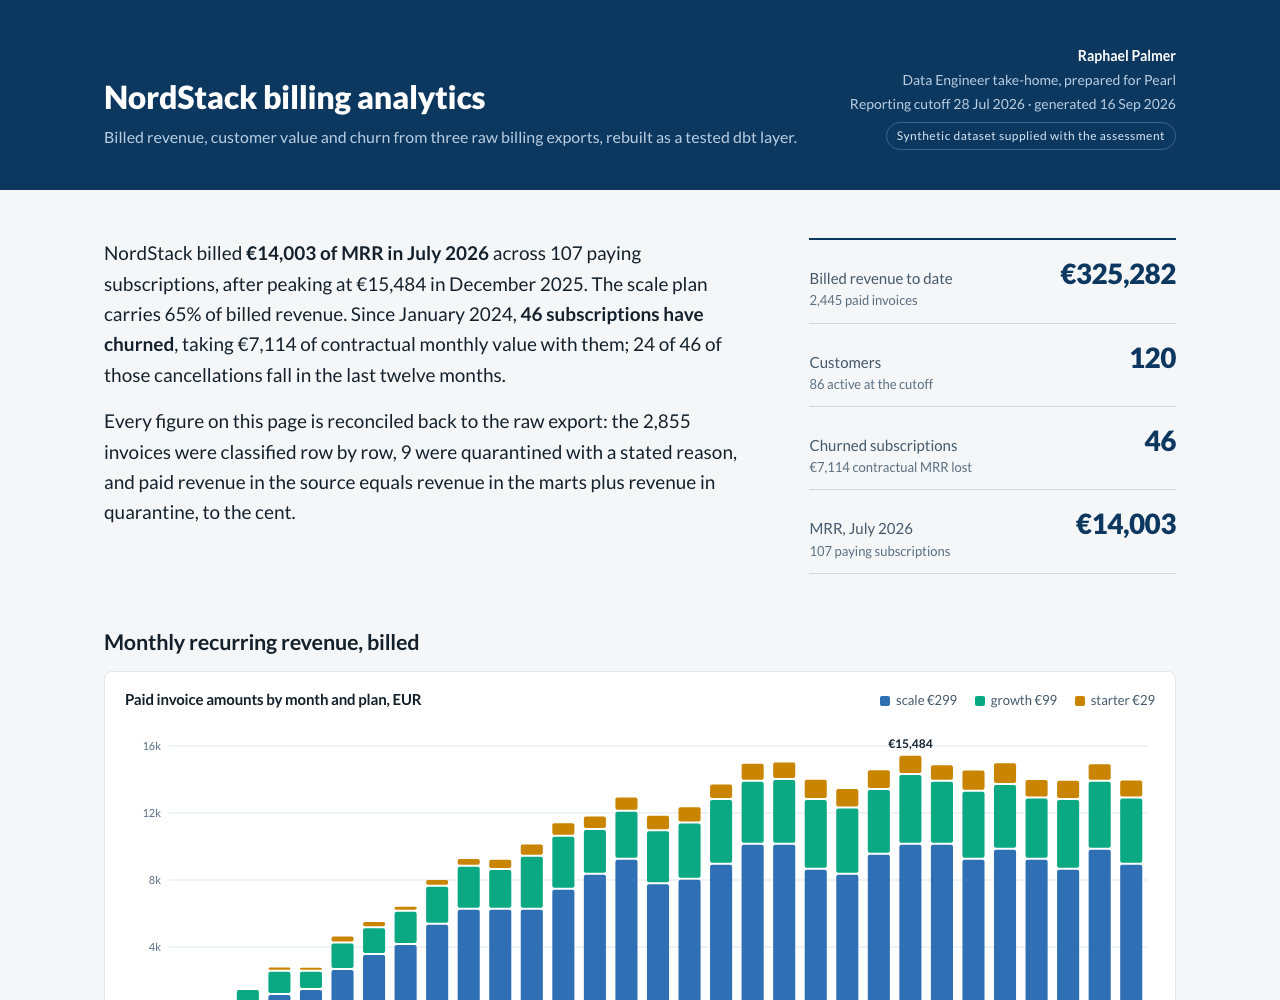
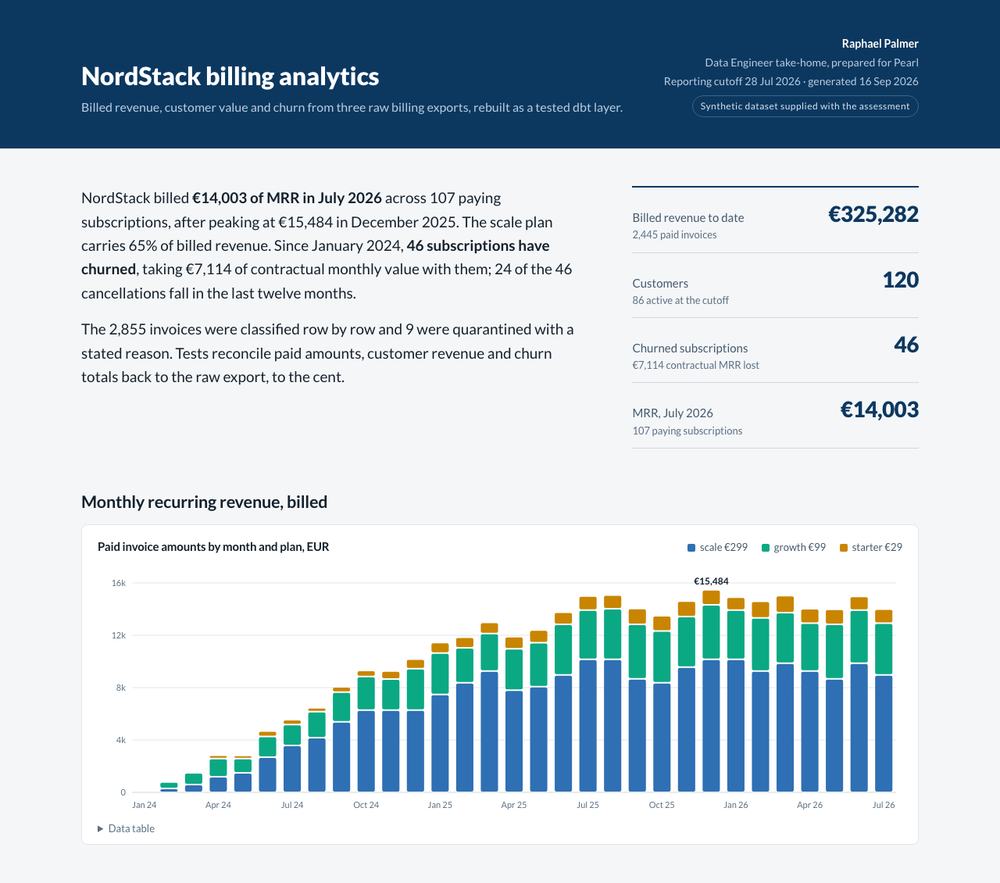
docs: narrow the report and reconciliation claims, Airflow unpause step, wording

diff --git a/report/template.html b/report/template.html
@@ -155,8 +155,8 @@
 <main class="wrap">
   <section class="lede">
     <div>
-      <p>NordStack billed <strong>__MRR_LAST__ of MRR in __MONTH_LAST__</strong> across __SUBS_LAST__ paying subscriptions, after peaking at __MRR_PEAK__ in __MONTH_PEAK__. The scale plan carries __SCALE_SHARE__ of billed revenue. Since __MONTH_FIRST__, <strong>__CHURN_N__ subscriptions have churned</strong>, taking __CHURN_EUR__ of contractual monthly value with them; __CHURN_12M__ of those cancellations fall in the last twelve months.</p>
-      <p>Every figure on this page is reconciled back to the raw export: the __RAW_INVOICES__ invoices were classified row by row, __REJ_INVOICES__ were quarantined with a stated reason, and paid revenue in the source equals revenue in the marts plus revenue in quarantine, to the cent.</p>
+      <p>NordStack billed <strong>__MRR_LAST__ of MRR in __MONTH_LAST__</strong> across __SUBS_LAST__ paying subscriptions, after peaking at __MRR_PEAK__ in __MONTH_PEAK__. The scale plan carries __SCALE_SHARE__ of billed revenue. Since __MONTH_FIRST__, <strong>__CHURN_N__ subscriptions have churned</strong>, taking __CHURN_EUR__ of contractual monthly value with them; __CHURN_12M__ cancellations fall in the last twelve months.</p>
+      <p>The __RAW_INVOICES__ invoices were classified row by row and __REJ_INVOICES__ were quarantined with a stated reason. Tests reconcile paid amounts, customer revenue and churn totals back to the raw export, to the cent.</p>
     </div>
     <div class="side">
       <dl>
@@ -213,8 +213,8 @@
     <div><div class="k">Raw rows</div><div class="v num">__RAW_TOTAL__</div><div class="d">__RAW_C__ customers · __RAW_S__ subscriptions · __RAW_INVOICES__ invoices</div></div>
     <div><div class="k">Diagnostics</div><div class="v num">28 checks</div><div class="d">warn-level tests on the raw tables; 17 fail on this export, on purpose</div></div>
     <div><div class="k">Collapsed</div><div class="v num">__COLLAPSED__</div><div class="d">exact duplicate rows</div></div>
-    <div><div class="k">Quarantined</div><div class="v num">__REJ_TOTAL__</div><div class="d">__REJ_S__ subscriptions · __REJ_INVOICES__ invoices, each with a reason</div></div>
-    <div><div class="k">Usable</div><div class="v num">__STG_TOTAL__</div><div class="d">__STG_C__ · __STG_S__ · __STG_I__ rows into the marts, reconciled</div></div>
+    <div><div class="k">Quarantined</div><div class="v num">__REJ_TOTAL__</div><div class="d">__REJ_S_LABEL__ · __REJ_INVOICES__ invoices, each with a reason</div></div>
+    <div><div class="k">Usable</div><div class="v num">__STG_TOTAL__</div><div class="d">__STG_C__ · __STG_S__ · __STG_I__ rows in staging, reconciled</div></div>
   </div>
   <div class="tbl">
   <table class="findings">
@@ -241,7 +241,7 @@
 
   <footer>
     <p><strong>Definitions.</strong> MRR is billed: the sum of paid invoice amounts in the invoice month, converted to EUR. Lost MRR on churn is contractual: the monthly price of subscriptions whose cancellation date falls in the month, on or before the reporting cutoff. Customer lifetime value is paid revenue attributable to a customer record. The two revenue bases differ on purpose and are labelled where they appear.</p>
-    <p><strong>Reproduce.</strong> The repository rebuilds everything from a clean clone with <code>make bootstrap</code>: MySQL as the source system, dlt to Postgres, dbt models and tests (source diagnostics warn, everything downstream errors), and an Airflow DAG that reruns the chain every five minutes. This page was generated from the marts on __GENERATED__ with <code>make report</code>; the data is the synthetic set supplied with the assessment.</p>
+    <p><strong>Reproduce.</strong> <code>make bootstrap</code> builds the warehouse from a clean clone: MySQL as the source system, dlt to Postgres, dbt models and tests (source diagnostics warn, everything downstream errors). An Airflow DAG reruns the chain every five minutes when deployed; the report is a separate <code>make report</code>. This page was generated from the marts on __GENERATED__ with <code>make report</code>; the data is the synthetic set supplied with the assessment.</p>
   </footer>
 </main>
 

diff --git a/report/nordstack-billing-report.html b/report/nordstack-billing-report.html
@@ -155,8 +155,8 @@
 <main class="wrap">
   <section class="lede">
     <div>
-      <p>NordStack billed <strong>€14,003 of MRR in July 2026</strong> across 107 paying subscriptions, after peaking at €15,484 in December 2025. The scale plan carries 65% of billed revenue. Since January 2024, <strong>46 subscriptions have churned</strong>, taking €7,114 of contractual monthly value with them; 24 of 46 of those cancellations fall in the last twelve months.</p>
-      <p>Every figure on this page is reconciled back to the raw export: the 2,855 invoices were classified row by row, 9 were quarantined with a stated reason, and paid revenue in the source equals revenue in the marts plus revenue in quarantine, to the cent.</p>
+      <p>NordStack billed <strong>€14,003 of MRR in July 2026</strong> across 107 paying subscriptions, after peaking at €15,484 in December 2025. The scale plan carries 65% of billed revenue. Since January 2024, <strong>46 subscriptions have churned</strong>, taking €7,114 of contractual monthly value with them; 24 of the 46 cancellations fall in the last twelve months.</p>
+      <p>The 2,855 invoices were classified row by row and 9 were quarantined with a stated reason. Tests reconcile paid amounts, customer revenue and churn totals back to the raw export, to the cent.</p>
     </div>
     <div class="side">
       <dl>
@@ -213,8 +213,8 @@
     <div><div class="k">Raw rows</div><div class="v num">3,151</div><div class="d">121 customers · 175 subscriptions · 2,855 invoices</div></div>
     <div><div class="k">Diagnostics</div><div class="v num">28 checks</div><div class="d">warn-level tests on the raw tables; 17 fail on this export, on purpose</div></div>
     <div><div class="k">Collapsed</div><div class="v num">2</div><div class="d">exact duplicate rows</div></div>
-    <div><div class="k">Quarantined</div><div class="v num">10</div><div class="d">1 subscriptions · 9 invoices, each with a reason</div></div>
-    <div><div class="k">Usable</div><div class="v num">3,139</div><div class="d">120 · 173 · 2,846 rows into the marts, reconciled</div></div>
+    <div><div class="k">Quarantined</div><div class="v num">10</div><div class="d">1 subscription · 9 invoices, each with a reason</div></div>
+    <div><div class="k">Usable</div><div class="v num">3,139</div><div class="d">120 · 173 · 2,846 rows in staging, reconciled</div></div>
   </div>
   <div class="tbl">
   <table class="findings">
@@ -241,7 +241,7 @@
 
   <footer>
     <p><strong>Definitions.</strong> MRR is billed: the sum of paid invoice amounts in the invoice month, converted to EUR. Lost MRR on churn is contractual: the monthly price of subscriptions whose cancellation date falls in the month, on or before the reporting cutoff. Customer lifetime value is paid revenue attributable to a customer record. The two revenue bases differ on purpose and are labelled where they appear.</p>
-    <p><strong>Reproduce.</strong> The repository rebuilds everything from a clean clone with <code>make bootstrap</code>: MySQL as the source system, dlt to Postgres, dbt models and tests (source diagnostics warn, everything downstream errors), and an Airflow DAG that reruns the chain every five minutes. This page was generated from the marts on 16 Sep 2026 with <code>make report</code>; the data is the synthetic set supplied with the assessment.</p>
+    <p><strong>Reproduce.</strong> <code>make bootstrap</code> builds the warehouse from a clean clone: MySQL as the source system, dlt to Postgres, dbt models and tests (source diagnostics warn, everything downstream errors). An Airflow DAG reruns the chain every five minutes when deployed; the report is a separate <code>make report</code>. This page was generated from the marts on 16 Sep 2026 with <code>make report</code>; the data is the synthetic set supplied with the assessment.</p>
   </footer>
 </main>
 

diff --git a/report/build_report.py b/report/build_report.py
@@ -1,8 +1,9 @@
-"""Render report/nordstack-billing-report.html from the marts in Postgres.
+"""Render report/nordstack-billing-report.html from the warehouse.
 
-The template holds the layout, the chart code and the prose; every number in the
-prose is a placeholder filled here from the marts, so a rebuild refreshes the page
-as a whole. The findings table describes this export and is written by hand.
+The template holds the layout, the chart code and the prose. This script refreshes
+headline metrics, charts and row counts from the marts, staging and quarantine
+schemas. Diagnostic counts, plan prices and the findings table describe this export
+and are written by hand in the template.
 """
 import json
 import os
@@ -101,7 +102,7 @@ def figures(data: dict, cutoff: str) -> dict:
         "MRR_LAST": eur(by_month[last]), "MONTH_LAST": month(last), "SUBS_LAST": subs_by_month[last],
         "MRR_PEAK": eur(by_month[peak]), "MONTH_PEAK": month(peak), "MONTH_FIRST": month(months[0]),
         "SCALE_SHARE": f"{scale / revenue:.0%}",
-        "CHURN_N": churn_n, "CHURN_EUR": eur(churn_eur), "CHURN_12M": f"{churn_12m} of {churn_n}",
+        "CHURN_N": churn_n, "CHURN_EUR": eur(churn_eur), "CHURN_12M": f"{churn_12m} of the {churn_n}",
         "REVENUE": eur(revenue), "PAID_INVOICES": f"{c['paid']:,}",
         "CUSTOMERS": c["stg_c"], "ACTIVE": data["status"].get("active", 0),
         "TOP10_SHARE": f"{top10 / revenue:.1%}",
@@ -109,7 +110,7 @@ def figures(data: dict, cutoff: str) -> dict:
         "RAW_C": c["raw_c"], "RAW_S": c["raw_s"], "RAW_INVOICES": f"{c['raw_i']:,}",
         "RAW_TOTAL": f"{c['raw_c'] + c['raw_s'] + c['raw_i']:,}",
         "COLLAPSED": (c["raw_c"] - c["stg_c"]) + (c["raw_s"] - c["stg_s"] - c["rej_s"]),
-        "REJ_S": c["rej_s"], "REJ_INVOICES": c["rej_i"], "REJ_TOTAL": c["rej_s"] + c["rej_i"],
+        "REJ_S_LABEL": f"{c['rej_s']} subscription{'' if c['rej_s'] == 1 else 's'}", "REJ_INVOICES": c["rej_i"], "REJ_TOTAL": c["rej_s"] + c["rej_i"],
         "STG_C": c["stg_c"], "STG_S": c["stg_s"], "STG_I": f"{c['stg_i']:,}",
         "STG_TOTAL": f"{c['stg_c'] + c['stg_s'] + c['stg_i']:,}",
         "GENERATED": date.today().strftime("%-d %b %Y"),

diff --git a/ingestion/settings.py b/ingestion/settings.py
@@ -1,5 +1,5 @@
-"""Connection settings. Defaults match docker-compose.yml. The NORDSTACK_* variables are
-the same ones profiles.yml reads; make exports them from .env to ingestion and dbt."""
+"""Connection settings. Defaults match docker-compose.yml. NORDSTACK_PG_* are the same
+variables profiles.yml reads; make exports .env to ingestion and dbt."""
 import os
 
 from sqlalchemy import URL

diff --git a/README.md b/README.md
@@ -56,7 +56,7 @@ compose, ingestion, dbt and the report all read the same variables.
     data/                 billing CSV exports, the assessment input, unchanged
     ingestion/            load_source_system.py (CSV -> MySQL), sync_to_warehouse.py (dlt MySQL -> Postgres)
     models/sources.yml    raw tables with warn-level diagnostics
-    models/staging/       base_* type and classify every row; stg_* keep the usable ones
+    models/staging/       base_* type and classify subscriptions and invoices; stg_* keep the usable rows
     models/quarantine/    rej_* keep the rejected ones, each with a reject_reason
     models/intermediate/  paid invoices in EUR within the cutoff, month spine
     models/marts/         fct_mrr_monthly_by_plan, dim_customer_ltv, fct_churn_monthly
@@ -77,7 +77,7 @@ appropriate. dlt adds `_dlt_load_id` and `_dlt_id` to every row.
 `stg_customers`, which has no base model because customers are never rejected). Empty
 CSV cells are loaded as SQL NULL. Casts are deliberately
 fail-fast: a malformed date or amount stops the build instead of being quarantined,
-because it would mean the export format itself changed.
+because it requires investigation.
 
 **Clean column plus `_raw` column, no flags.** When a value fails a rule the clean column
 is NULL and the `_raw` column keeps the export value (`email` / `email_raw`,
@@ -89,10 +89,10 @@ is NULL and the `_raw` column keeps the export value (`email` / `email_raw`,
 currency or subscription). `stg_*` keeps the rest, `rej_*` keeps the rejected rows, and a
 test proves the two add up to the raw rows (distinct raw rows for subscriptions, which
 hold an exact duplicate). Two defects are deliberately not rejected:
-a subscription whose customer is missing from the export (its invoices are real money,
-so they count in MRR but cannot be attributed in LTV), and a subscription whose end date
-precedes its start date (its invoices are real; its end date is nulled, so it keeps the
-exported status cancelled but is never counted as churn, having no trusted month).
+a subscription whose customer is missing from the export (its paid invoices count in
+MRR and cannot be attributed in LTV), and a subscription whose end date precedes its
+start date (its invoices count; its end date is nulled, so it keeps the exported status
+cancelled but is never counted as churn, having no trusted month).
 
 **Materialisation.** Staging, quarantine and intermediate are views over the latest
 loaded data. Marts are tables, which is what BI reads.
@@ -103,13 +103,13 @@ amounts in EUR by invoice month, as the brief asks. `fct_churn_monthly` sums
 
 **Fixed cutoff.** `as_of_date` (2026-07-28, the last invoice date) replaces
 `current_date` everywhere, so the marts do not change without new data. It also defines
-two extra subscription states: `pending` (starts after the cutoff) and
+two extra subscription states: `pending` (not cancelled, starts after the cutoff) and
 `pending_cancellation` (cancelled for a date after the cutoff, still running and billed).
 A customer's `current_status` takes the strongest state across their subscriptions
 (active, then pending_cancellation, paused, pending, cancelled).
 
-**Currency.** `fx_rates_to_eur` is a project var with a comment; the two SEK invoices are
-converted with it, and any other currency would be rejected. `monthly_price` has no
+**Currency.** The two SEK invoices are converted with the `fx_rates_to_eur` var; any
+other currency would be rejected. `monthly_price` has no
 currency in the export and is assumed EUR.
 
 **Simplifying billing rule.** No invoice may be dated after a trusted cancellation date.
@@ -162,9 +162,9 @@ parse test are in [`airflow/README.md`](airflow/README.md).
 from the marts: one HTML file with the chart data embedded, inline SVG charts with hover
 detail (MRR, customer ranking and churn also carry a data table), printable to PDF. The
 only external request is the Lato web font. `report/template.html` holds the layout, the
-chart code and the prose; `report/build_report.py` fills every number in the prose from
-the marts, so a rebuild refreshes the whole page. The findings table is written by hand
-because it describes this export.
+chart code and the prose; `report/build_report.py` refreshes headline metrics, charts and
+row counts from the warehouse. Diagnostic counts, plan prices and the findings table
+describe this export and are written by hand.
 
 ## Validation record
 

diff --git a/airflow/README.md b/airflow/README.md
@@ -18,6 +18,8 @@ Validate the DAG without a scheduler:
     make airflow-test
 
 This parses the DAG file and checks its configuration. It does not run tasks or send
-mail; `make bootstrap` does not deploy Airflow. A minimal deployment: copy the repository
-to the worker, set the variables above, run `dbt deps` once, place `dags/` on the DAG
-processor, and trigger a run with `airflow dags trigger nordstack_billing`.
+mail; `make bootstrap` does not deploy Airflow. On an existing Airflow 3.3 installation
+with the standard and SMTP providers: copy the repository to the worker, set the
+variables above, run `dbt deps` once, place `dags/` on the DAG processor, then
+`airflow dags unpause nordstack_billing` (new DAGs start paused) and
+`airflow dags trigger nordstack_billing`.

diff --git a/models/overview.md b/models/overview.md
@@ -4,7 +4,7 @@
 Billing exports -> MySQL (source system) -> dlt -> Postgres `raw` -> this project.
 
 - `raw` sources carry 28 warn-level checks; 17 fail on this export and are meant to.
-- `base_*` types and classifies every row; `stg_*` keeps the usable ones, `rej_*` the rest with a `reject_reason`.
+- `base_*` types and classifies subscriptions and invoices; `stg_*` keeps the usable rows, `rej_*` the rest with a `reject_reason`. Customers are typed in `stg_customers` and never rejected.
 - `int_*` holds paid invoices in EUR within the cutoff and the month spine.
 - Marts: `fct_mrr_monthly_by_plan`, `dim_customer_ltv`, `fct_churn_monthly`.
 
